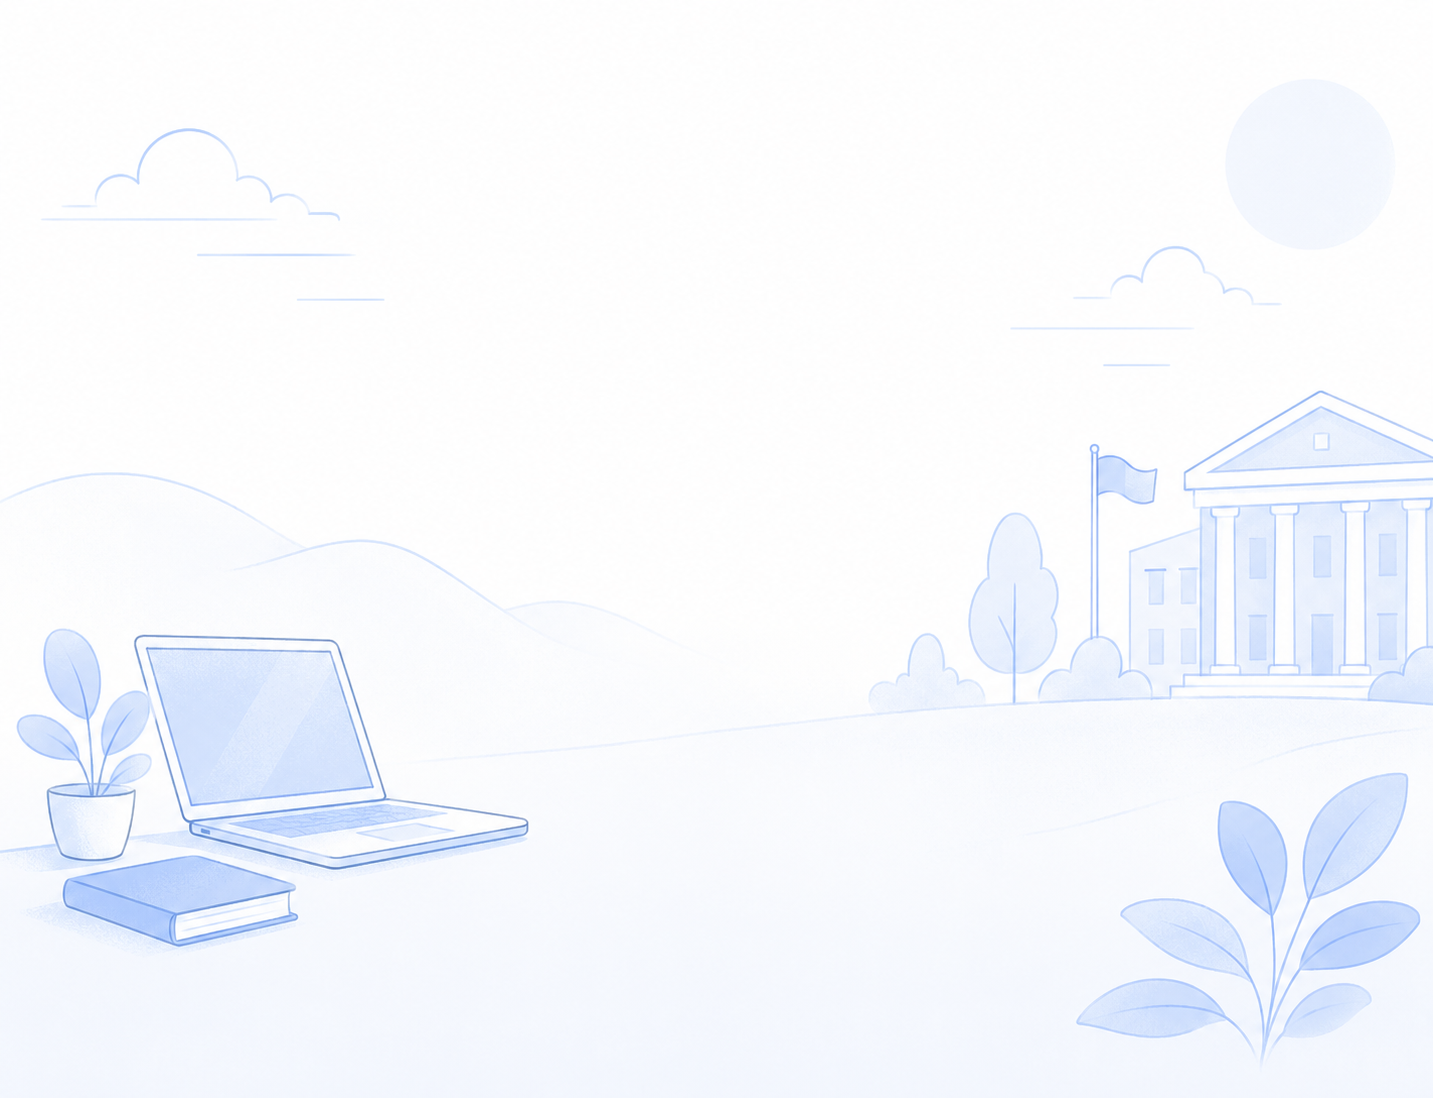
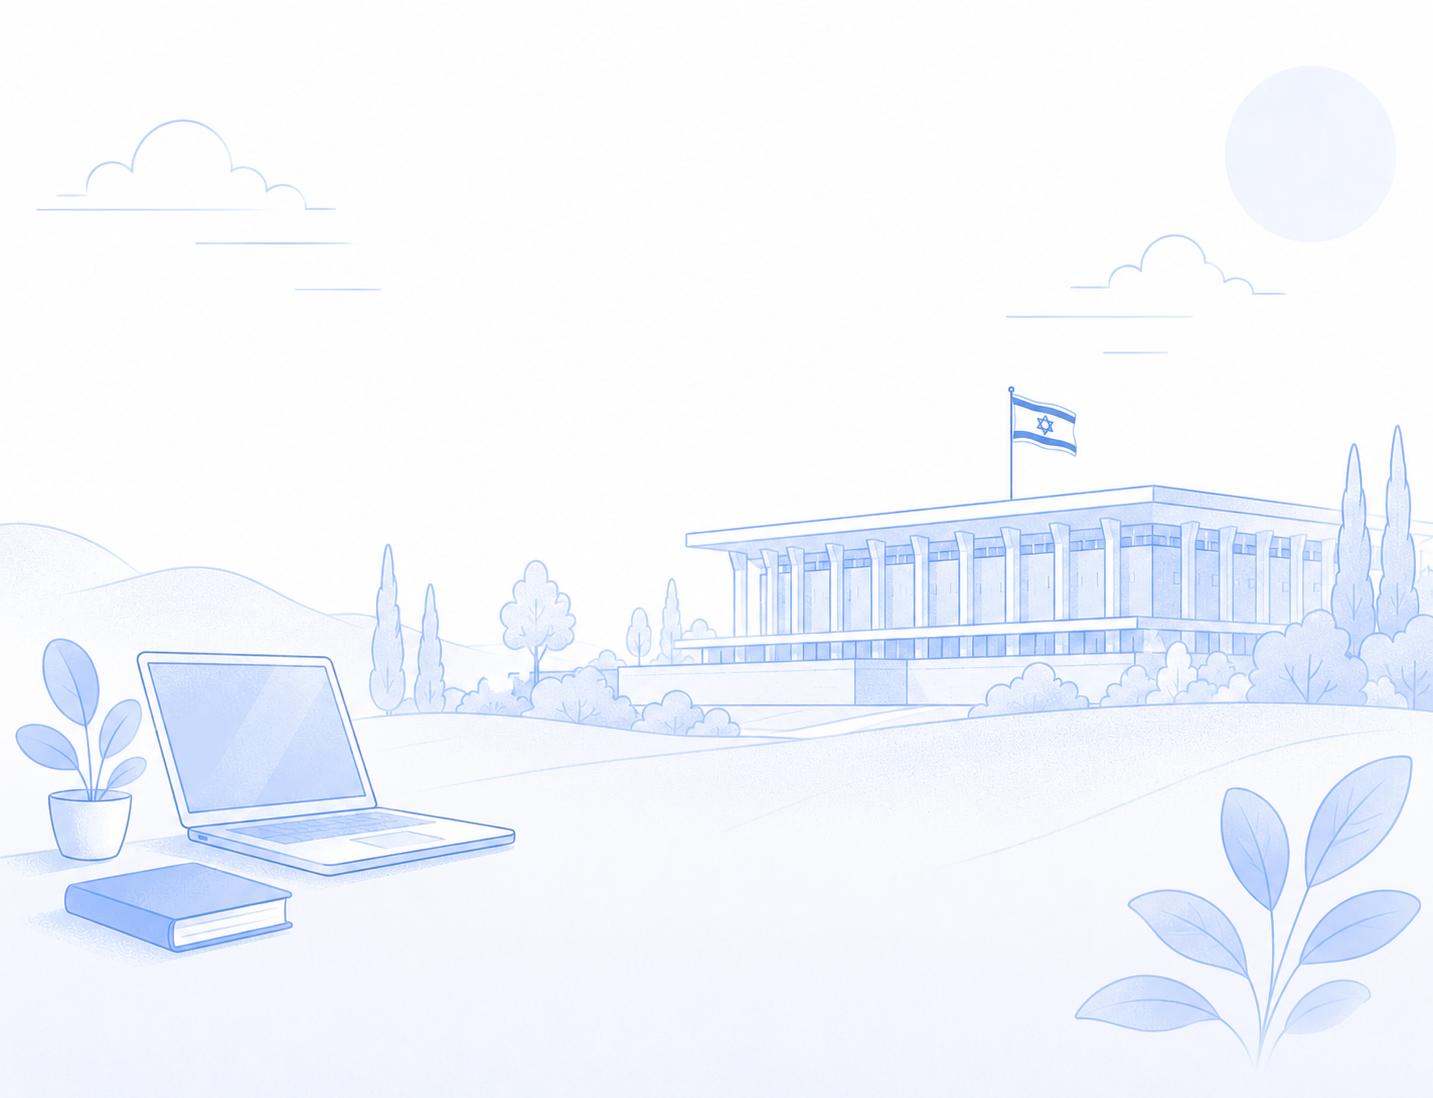
מערכות שטוחות, נגישות AA, רספונסיביות מובייל וולידציה להמחשה
- ביטול תת-מערכות: SYS_MAP שטוח (נהיגה ספורטיבית / מוזיקאים / רקדנים מצטיינים / סל מדע);
  "בקשה חדשה" ישר לטופס של המערכת, ללא דיאלוג בחירה
- ולידציה להמחשה: לחיצה ראשונה מסמנת שדות חובה ("שדה חובה"), לחיצה שנייה מדלגת;
  טופס "השלמת פרטים" נטען עם הכוונה אוטומטית לשדות הנדרשים, טופס חדש נקי
- נגישות AA: שדות נפתחים מותאמים עם תמיכת מקלדת מלאה (חיצים/Enter/Esc) + roles+aria,
  aria-required לשדות חובה, הכהיית --muted לניגודיות ≥4.5
- רספונסיביות מובייל: סרגל האזור-האישי מצטמצם (לוגו/אייקונים בלבד), 0 גלילה אופקית ב-375px
- שינוי "חזרה לאזור האישי" → "חזרה לבקשות שלי"

diff --git a/Government Digital Platform/Prototype/app.js b/Government Digital Platform/Prototype/app.js
@@ -11,7 +11,7 @@ const state = {
   stateView:'maintenance',
   /* אזור אישי (רשימת בקשות) */
   appSearch:'', appType:'all', appPeriod:'all', appEmpty:false,
-  sysName:'נהיגה ספורטיבית', sysSub:'רישוי נהגים ספורטיביים', sysSubs:['רישוי נהגים ספורטיביים','רישום אגודות ומועדונים','מבחנים והסמכות'], sysImg:'assets/systems/driving.jpg', sysLogo:'culture', sysReqTypes:[{id:'music',name:'הגשת בקשה'}],
+  sysName:'נהיגה ספורטיבית', sysImg:'assets/systems/driving.jpg', sysLogo:'culture', sysReq:'music',
 };
 
 /* ברכה לפי שעה */
@@ -76,35 +76,17 @@ function closeLeaveDialog(keepPending){ const el=document.getElementById('leaveD
 function leaveSaveDraft(){ const p=_formExitPending; closeLeaveDialog(); toast('הטיוטה נשמרה',true); if(p) p(); }
 function leaveDiscard(){ const p=_formExitPending; closeLeaveDialog(); if(p) p(); }
 
-/* ---- gateway → enter selected system → אזור אישי ---- */
-const REQ_MUSIC={id:'music',name:'מוזיקאי מצטיין'}, REQ_DANCE={id:'dance',name:'רקדן מצטיין'};
+/* ---- gateway → enter selected system → אזור אישי (מערכות שטוחות, ללא תת-מערכת) ---- */
 const SYS_MAP = {
-  driving:{name:'נהיגה ספורטיבית', subs:['רישוי נהגים ספורטיביים','רישום אגודות ומועדונים','מבחנים והסמכות'], img:'assets/systems/driving.jpg', logo:'culture', empty:true,  reqTypes:[{id:'music',name:'הגשת בקשה'}]},
-  human:  {name:'מצטיינים בצה״ל',  subs:['מוזיקאים מצטיינים','רקדנים מצטיינים'],                              img:'assets/systems/excellence.png', logo:'culture', empty:false, reqTypes:[REQ_MUSIC, REQ_DANCE]},
-  excel:  {name:'מערכת מצטינים',   subs:['מוזיקאים מצטיינים','רקדנים מצטיינים','אמני במה'],                  img:'assets/systems/excel.png',   logo:'culture', empty:true,  reqTypes:[REQ_MUSIC, REQ_DANCE]},
-  funds:  {name:'סל מדע',          subs:['מענקי מחקר','מלגות מדע','תשתיות ומעבדות'],                          img:'assets/systems/funds.jpg',   logo:'state',   empty:true,  reqTypes:[{id:'music',name:'בקשת מענק'}]},
+  driving:{name:'נהיגה ספורטיבית',   img:'assets/systems/driving.jpg',    logo:'culture', empty:true,  req:'music'},
+  music:  {name:'מוזיקאים מצטיינים', img:'assets/systems/excellence.png', logo:'culture', empty:false, req:'music'},
+  dance:  {name:'רקדנים מצטיינים',   img:'assets/systems/excellence.png', logo:'culture', empty:true,  req:'dance'},
+  funds:  {name:'סל מדע',            img:'assets/systems/funds.jpg',      logo:'state',   empty:true,  req:'music'},
 };
-function enterSystem(id){ const s=SYS_MAP[id]||SYS_MAP.driving; state.sysName=s.name; state.sysSubs=s.subs; state.sysSub=s.subs[0]; state.sysImg=s.img; state.sysLogo=s.logo; state.sysReqTypes=s.reqTypes; state.appEmpty=!!s.empty; state.screen='home'; render(); window.scrollTo(0,0); }
+function enterSystem(id){ const s=SYS_MAP[id]||SYS_MAP.driving; state.sysName=s.name; state.sysImg=s.img; state.sysLogo=s.logo; state.sysReq=s.req; state.appEmpty=!!s.empty; state.screen='home'; render(); window.scrollTo(0,0); }
 
-/* הגשת בקשה חדשה — בוחר סוג בקשה אם יש יותר מאחד */
-function newRequest(){
-  const types=state.sysReqTypes||[REQ_MUSIC, REQ_DANCE];
-  if(types.length<=1){ startForm(types[0].id); return; }
-  closeReqTypeDlg();
-  const el=document.createElement('div'); el.className='modal-overlay'; el.id='reqTypeDlg';
-  el.innerHTML=`<div class="modal" role="dialog" aria-modal="true" aria-labelledby="rtT">
-    <h3 id="rtT">הגשת בקשה חדשה</h3>
-    <p>בחרו את סוג הבקשה שברצונכם להגיש במערכת <b>${state.sysName||''}</b>:</p>
-    <div class="modal-acts">
-      ${types.map(t=>`<button class="btn btn-out reqtype-opt" onclick="pickReqType('${t.id}')">${UI.icon(t.id==='dance'?'award':'music',18)} <span>${t.name}</span></button>`).join('')}
-      <button class="btn btn-ghost" onclick="closeReqTypeDlg()">ביטול</button>
-    </div></div>`;
-  el.addEventListener('click',e=>{ if(e.target===el) closeReqTypeDlg(); });
-  document.body.appendChild(el);
-  const f=el.querySelector('.reqtype-opt'); if(f) f.focus();
-}
-function closeReqTypeDlg(){ const el=document.getElementById('reqTypeDlg'); if(el) el.remove(); }
-function pickReqType(id){ closeReqTypeDlg(); startForm(id); }
+/* הגשת בקשה חדשה — ישירות לטופס של המערכת הנוכחית (ללא דיאלוג) */
+function newRequest(){ startForm(state.sysReq||'music'); }
 
 /* ---- שורות/כרטיסים חוזרים בטופס (הוספה/מחיקה אמיתית) ---- */
 function _cleanClone(node){
@@ -127,7 +109,6 @@ function addRepeat(btn){
   }
 }
 function delTableRow(btn){ const tr=btn.closest('tr'); const tb=tr&&tr.parentNode; if(tr && tb && tb.querySelectorAll('tr').length>1){ tr.remove(); } else { toast('יש להשאיר לפחות שורה אחת'); } }
-function setAppSub(name){ state.sysSub=name; render(); }
 
 /* ---- אזור אישי: חיפוש / סינון / מיון + פתיחת בקשה ---- */
 function setAppSearch(v){ state.appSearch=v; render(); const inp=document.querySelector('#appSearchInput'); if(inp){ inp.focus(); inp.setSelectionRange(inp.value.length,inp.value.length); } }
@@ -167,15 +148,47 @@ function setQSearch(v){
 }
 
 /* ---- form ---- */
-function startForm(serviceId){ state.discipline=(serviceId==='dance'?'dance':'music'); state.completeMode=false; state.step=0; state.screen='apply'; render(); window.scrollTo(0,0); }
+function startForm(serviceId){ state.discipline=(serviceId==='dance'?'dance':'music'); state.completeMode=false; state.step=0; state.valBypass=false; state.screen='apply'; render(); window.scrollTo(0,0); }
 function setTrack(t){ state.musicTrack=t; render(); }
-function setStep(i){ state.step=i; render(); window.scrollTo(0,0); }
-function nextStep(){ if(state.step<DB.formDef.steps.length-1){ state.step++; render(); window.scrollTo(0,0); } }
-function prevStep(){ if(state.step>0){ state.step--; render(); window.scrollTo(0,0); } }
+function setStep(i){ state.step=i; state.valBypass=false; render(); window.scrollTo(0,0); }
+function prevStep(){ if(state.step>0){ state.step--; state.valBypass=false; render(); window.scrollTo(0,0); } }
+/* ולידציה להמחשה: לחיצה ראשונה מסמנת שדות חובה חסרים; לחיצה נוספת מדלגת ומתקדמת */
+function validateStep(noScroll){
+  const cont=document.querySelector('.form-sections'); if(!cont) return 0;
+  cont.querySelectorAll('.field.err').forEach(f=>f.classList.remove('err'));
+  cont.querySelectorAll('.check.err').forEach(c=>c.classList.remove('err'));
+  cont.querySelectorAll('.errmsg[data-auto]').forEach(e=>e.remove());
+  let errs=0, first=null;
+  const mark=f=>{ f.classList.add('err'); if(!f.querySelector('.errmsg')){ const s=document.createElement('span'); s.className='errmsg'; s.setAttribute('data-auto','1'); s.textContent='שדה חובה'; f.appendChild(s); } errs++; if(!first) first=f; };
+  cont.querySelectorAll('.field').forEach(f=>{
+    if(!f.querySelector('label .req')) return;
+    const ctrl=f.querySelector('input:not([type=checkbox]):not([type=radio]), select, textarea');
+    if(ctrl){
+      if(ctrl.readOnly) return;
+      let empty;
+      if(ctrl.tagName==='SELECT'){ const o=ctrl.options[ctrl.selectedIndex]; empty=!ctrl.value || (o && /^\s*בחר/.test(o.text)); }
+      else empty=!String(ctrl.value).trim();
+      if(empty) mark(f);
+    } else if(f.querySelector('.dropzone')) mark(f);
+  });
+  cont.querySelectorAll('label.check').forEach(l=>{ if(l.querySelector('.req')){ const cb=l.querySelector('input[type=checkbox]'); if(cb && !cb.checked){ l.classList.add('err'); errs++; if(!first) first=l; } } });
+  if(first && !noScroll) first.scrollIntoView({behavior:'smooth',block:'center'});
+  return errs;
+}
+function nextStep(){
+  if(state.step>=DB.formDef.steps.length-1) return;
+  if(!state.valBypass){
+    const errs=validateStep();
+    if(errs>0){ state.valBypass=true; toast('יש להשלים '+errs+' שדות חובה · לחיצה נוספת על "המשך" תדלג על הבדיקה (להמחשה)'); return; }
+  }
+  state.valBypass=false; state.step++; render(); window.scrollTo(0,0);
+}
 function submitForm(){
-  const dec=document.getElementById('declare');
-  if(dec && !dec.checked){ toast('יש לאשר את ההצהרה לפני ההגשה'); return; }
-  toast('הבקשה הוגשה בהצלחה', true); nav('success');
+  if(!state.valBypass){
+    const errs=validateStep();
+    if(errs>0){ state.valBypass=true; toast('יש להשלים '+errs+' שדות חובה · לחיצה נוספת על "הגשה" תדלג על הבדיקה (להמחשה)'); return; }
+  }
+  state.valBypass=false; toast('הבקשה הוגשה בהצלחה', true); nav('success');
 }
 /* חיפוש גלובלי (Hero / Header) → קטלוג שירותים */
 function goSearch(ev, val){
@@ -222,6 +235,8 @@ function render(){
   bindAutosave();
   initSignature();
   document.body.classList.toggle('formbar', state.screen==='apply');
+  /* בקשה קיימת להשלמה: המערכת מסמנת ומכווינה לשדות הנדרשים מיד עם הטעינה */
+  if(state.screen==='apply' && state.completeMode) validateStep(true);
 }
 
 /* פד חתימה אינטראקטיבי (canvas) */
@@ -283,24 +298,35 @@ function enhanceSelects(){
     const btn=document.createElement('button'); btn.type='button'; btn.className='uisel-btn';
     btn.setAttribute('aria-haspopup','listbox'); btn.setAttribute('aria-expanded','false');
     if(sel.disabled) btn.disabled=true;
+    const lab=sel.closest('.field')&&sel.closest('.field').querySelector('label');
+    if(lab){ const t=lab.textContent.replace('*','').trim(); if(t) btn.setAttribute('aria-label',t); }
+    else if(sel.getAttribute('aria-label')) btn.setAttribute('aria-label',sel.getAttribute('aria-label'));
     btn.innerHTML=`<span class="uisel-val">${cur?cur.textContent:''}</span><span class="uisel-chev">${UI.icon('chevdown',18)}</span>`;
     const menu=document.createElement('div'); menu.className='uisel-menu hidden'; menu.setAttribute('role','listbox');
-    [...sel.options].forEach((o,i)=>{
-      const oi=document.createElement('button'); oi.type='button'; oi.setAttribute('role','option');
+    const opts=[...sel.options].map((o,i)=>{
+      const oi=document.createElement('button'); oi.type='button'; oi.setAttribute('role','option'); oi.tabIndex=-1;
       oi.className='uisel-opt'+(i===sel.selectedIndex?' on':''); oi.textContent=o.textContent;
-      oi.addEventListener('click',ev=>{
-        ev.stopPropagation(); sel.value=o.value;
-        btn.querySelector('.uisel-val').textContent=o.textContent;
-        menu.querySelectorAll('.uisel-opt').forEach(x=>x.classList.remove('on')); oi.classList.add('on');
-        menu.classList.add('hidden'); btn.setAttribute('aria-expanded','false');
-        sel.dispatchEvent(new Event('change',{bubbles:true}));
-      });
-      menu.appendChild(oi);
+      oi.setAttribute('aria-selected', i===sel.selectedIndex?'true':'false');
+      oi.addEventListener('click',ev=>{ ev.stopPropagation(); choose(i); });
+      oi.addEventListener('keydown',ev=>onOptKey(ev,i));
+      menu.appendChild(oi); return oi;
     });
-    btn.addEventListener('click',ev=>{
-      ev.stopPropagation(); const willOpen=menu.classList.contains('hidden'); closeMenus();
-      if(willOpen){ menu.classList.remove('hidden'); btn.setAttribute('aria-expanded','true'); }
-    });
+    function choose(i){ const o=sel.options[i]; sel.value=o.value; btn.querySelector('.uisel-val').textContent=o.textContent;
+      opts.forEach((x,j)=>{ x.classList.toggle('on',j===i); x.setAttribute('aria-selected', j===i?'true':'false'); });
+      close(); sel.dispatchEvent(new Event('change',{bubbles:true})); }
+    function open(){ closeMenus(); menu.classList.remove('hidden'); btn.setAttribute('aria-expanded','true'); (opts.find(x=>x.classList.contains('on'))||opts[0]||{focus(){}}).focus(); }
+    function close(focusBtn){ menu.classList.add('hidden'); btn.setAttribute('aria-expanded','false'); if(focusBtn!==false) btn.focus(); }
+    function onOptKey(ev,i){
+      if(ev.key==='ArrowDown'){ ev.preventDefault(); (opts[i+1]||opts[0]).focus(); }
+      else if(ev.key==='ArrowUp'){ ev.preventDefault(); (opts[i-1]||opts[opts.length-1]).focus(); }
+      else if(ev.key==='Home'){ ev.preventDefault(); opts[0].focus(); }
+      else if(ev.key==='End'){ ev.preventDefault(); opts[opts.length-1].focus(); }
+      else if(ev.key==='Enter'||ev.key===' '){ ev.preventDefault(); choose(i); }
+      else if(ev.key==='Escape'){ ev.preventDefault(); close(); }
+      else if(ev.key==='Tab'){ close(false); }
+    }
+    btn.addEventListener('click',ev=>{ ev.stopPropagation(); if(menu.classList.contains('hidden')) open(); else close(false); });
+    btn.addEventListener('keydown',ev=>{ if(ev.key==='ArrowDown'||ev.key==='Enter'||ev.key===' '){ ev.preventDefault(); open(); } else if(ev.key==='Escape'){ close(false); } });
     sel.style.display='none';
     sel.parentNode.insertBefore(wrap, sel.nextSibling);
     wrap.appendChild(btn); wrap.appendChild(menu);
@@ -312,6 +338,7 @@ function associateLabels(){
   document.querySelectorAll('#app .field').forEach(f=>{
     const lab=f.querySelector('label'); const inp=f.querySelector('input,select,textarea');
     if(lab&&inp&&!inp.id){ const id='fld'+(++lc); inp.id=id; lab.htmlFor=id; }
+    if(inp && lab && lab.querySelector('.req')) inp.setAttribute('aria-required','true');
   });
   document.querySelectorAll('#app table.form-table').forEach(t=>{
     const ths=[...t.querySelectorAll('thead th')].map(h=>h.textContent.trim());

diff --git a/Government Digital Platform/Prototype/styles.css b/Government Digital Platform/Prototype/styles.css
@@ -14,7 +14,7 @@
   --ink:#0C3058;           /* טקסט גוף (navy) */
   --ink-strong:#0B3668;    /* כותרות */
   --ink-soft:#54688A;      /* טקסט משני */
-  --muted:#6A7790;
+  --muted:#566580;
   --line:#E4E9F2;          /* גבולות */
   --line-2:#CFD8E6;
   --surface:#FFFFFF;
@@ -569,6 +569,10 @@ table.dt tbody tr:hover{background:var(--blue-l2)}
   background-repeat:no-repeat;background-position:left 14px center;background-size:16px;padding-left:42px}
 .field input:focus,.field select:focus,.field textarea:focus{outline:none;border-color:var(--blue);box-shadow:var(--ring)}
 .field.err input,.field.err select{border-color:var(--danger);box-shadow:0 0 0 3px rgba(194,36,27,.14)}
+.field.err .uisel-btn{border-color:var(--danger);box-shadow:0 0 0 3px rgba(194,36,27,.14)}
+.field.err .dropzone{border-color:var(--danger);background:rgba(194,36,27,.04)}
+.check.err{color:var(--danger)}
+.check.err input{outline:2px solid var(--danger);outline-offset:2px}
 .field .errmsg{font-size:13px;color:var(--danger);font-weight:500;display:none}
 .field.err .errmsg{display:block}
 .field .ok-tag{font-size:12.5px;color:var(--ok);font-weight:600}
@@ -742,6 +746,21 @@ body.formbar{overflow-x:clip}
 .menu-overlay{display:none;position:fixed;inset:0;background:rgba(11,46,92,.45);z-index:45}
 @media(min-width:981px){.sticky-cta{position:sticky;top:84px}}
 
+/* ===== סרגל אזור-אישי במובייל: צמצום לאלמנטים חיוניים ===== */
+@media(max-width:680px){
+  .govbar{padding:0 12px;gap:8px}
+  .govbar .left{gap:8px;min-width:0;flex:1}
+  .applic-brand .bl-tx{display:none}              /* רק סמל המשרד */
+  .govbar .ctx{padding-inline-start:10px;margin-inline-start:4px;min-width:0}
+  .sw-combo .sw-sys,.ctx-static .ctx-sys{max-width:42vw;overflow:hidden;text-overflow:ellipsis;white-space:nowrap;display:inline-block}
+  .bar-newreq .btn-lbl{display:none}               /* כפתור אייקון בלבד */
+  .bar-newreq{padding:9px 11px}
+  .bar-exit .btn-lbl{display:none}
+  .bar-exit{padding:8px 11px}
+  .userpill .up-tx{display:none}                   /* אווטאר + חץ בלבד */
+  .userpill{padding:0 6px;gap:4px}
+  .bar-autosave .as-note{display:none}
+}
 @media(max-width:980px){
   .hamburger{display:flex}
   .hdr-search{display:none}
@@ -780,7 +799,7 @@ body.formbar{overflow-x:clip}
    ============================================================ */
 .signin{flex:1;display:flex;flex-direction:column;min-height:100vh;position:relative;background:var(--bg)}
 .signin::before{content:"";position:absolute;inset:0;pointer-events:none;
-  background:url('assets/signin-bg.png') no-repeat bottom center;background-size:cover}
+  background:url('assets/signin-bg.png?v=2') no-repeat bottom center;background-size:cover}
 .signin-top{display:flex;justify-content:flex-start;padding:24px 40px;position:relative;z-index:2}
 .ministries{display:flex;align-items:center;gap:30px}
 .ministries .min-logo{height:52px;width:auto;display:block}

diff --git a/Government Digital Platform/Prototype/components.js b/Government Digital Platform/Prototype/components.js
@@ -149,37 +149,33 @@ window.UI = (function(){
   /* ---- סרגל אזור אישי (לאחר בחירת מערכת) — נאמן ל-Figma ---- */
   function barApplicant(minimal){
     const sys = state.sysName || 'נהיגה ספורטיבית';
-    const sub = state.sysSub || 'רישוי נהגים ספורטיביים';
     const minName = state.sysLogo==='state' ? 'משרד החדשנות, המדע והטכנולוגיה' : 'משרד התרבות והספורט';
     const brand = `<button class="brand-lock applic-brand" onclick="nav('home')" title="${minName} — דף הבית"><span class="emblem ministry no-chip">${state.sysLogo==='state'?stateLogo(40):ministryLogo(40)}</span><span class="bl-tx"><span class="wm">${minName}</span></span></button>`;
     if(minimal){
       return `<header class="govbar dark"><div class="left">
         ${brand}
-        <div class="ctx ctx-static"><span class="ctx-sys">${sys}</span><span class="ctx-sub">${sub}</span></div>
+        <div class="ctx ctx-static"><span class="ctx-sys">${sys}</span></div>
       </div>
       <div class="right">
         <span class="autosave bar-autosave" title="טיוטה נשמרה אוטומטית"><span class="as-note">טיוטה נשמרה אוטומטית ·</span>${icon('save',16)}<span class="as-time">09:51</span></span>
-        <button class="bar-exit" onclick="nav('home')" title="יציאה מהתהליך">${icon('x',18)} יציאה מהתהליך</button></div>
+        <button class="bar-exit" onclick="nav('home')" title="יציאה מהתהליך" aria-label="יציאה מהתהליך">${icon('x',18)} <span class="btn-lbl">יציאה מהתהליך</span></button></div>
       </header>`;
     }
     return `<header class="govbar dark"><div class="left">
         ${brand}
         <div class="ctx">
           <div class="subsys-wrap syswitch">
-            <button class="sw sw-combo" onclick="toggleSubsys(event)" aria-haspopup="true" aria-label="בחירת מערכת ותת-מערכת">
-              <span class="sw-stack"><span class="sw-sys">${sys}</span><span class="sw-sub">${sub}</span></span>${icon('chevdown',16)}
+            <button class="sw sw-combo" onclick="toggleSubsys(event)" aria-haspopup="true" aria-label="בחירת מערכת">
+              <span class="sw-sys">${sys}</span>${icon('chevdown',16)}
             </button>
             <div class="subsysmenu sysmenu hidden">
-              <div class="ssm-head">מערכת</div>
+              <div class="ssm-head">בחירת מערכת</div>
               ${Object.keys(SYS_MAP).map(id=>{const s=SYS_MAP[id];const cur=s.name===sys;return `<button class="um-item${cur?' on':''}" onclick="closeMenus();enterSystem('${id}')">${icon('grid',16)}<span class="um-tx">${s.name}</span>${cur?icon('check',16):''}</button>`;}).join('')}
-              <div class="um-div"></div>
-              <div class="ssm-head">תת-מערכת</div>
-              ${(state.sysSubs||[sub]).map(s=>{const cur=s===sub;return `<button class="um-item${cur?' on':''}" onclick="closeMenus();setAppSub('${s}')">${icon('list',16)}<span class="um-tx">${s}</span>${cur?icon('check',16):''}</button>`;}).join('')}
             </div>
           </div>
         </div></div>
       <div class="right">
-        <button class="bar-newreq" onclick="newRequest()">${icon('plusbare',18)} הגשת בקשה חדשה</button>
+        <button class="bar-newreq" onclick="newRequest()" aria-label="הגשת בקשה חדשה">${icon('plusbare',18)} <span class="btn-lbl">הגשת בקשה חדשה</span></button>
         ${userPill('עופר ברוידא','',[
           {label:'הבקשות שלי',icon:'home',onclick:"nav('home')"},
           {label:'הודעות',icon:'mail',onclick:"nav('notifications')"},

diff --git a/Government Digital Platform/Prototype/index.html b/Government Digital Platform/Prototype/index.html
@@ -9,16 +9,16 @@
 <link rel="preconnect" href="https://fonts.gstatic.com" crossorigin>
 <link rel="preload" as="style" href="https://fonts.googleapis.com/css2?family=Rubik:wght@300;400;500;600;700;800&display=swap" onload="this.onload=null;this.rel='stylesheet'">
 <noscript><link rel="stylesheet" href="https://fonts.googleapis.com/css2?family=Rubik:wght@300;400;500;600;700;800&display=swap"></noscript>
-<link rel="stylesheet" href="styles.css?v=60">
+<link rel="stylesheet" href="styles.css?v=66">
 <style>body{font-family:'Rubik',system-ui,'Segoe UI',Arial,sans-serif}</style>
 </head>
 <body>
   <div id="app"></div>
 
-  <script src="data.js?v=60"></script>
-  <script src="components.js?v=60"></script>
-  <script src="screens-citizen.js?v=60"></script>
-  <script src="screens-operations.js?v=60"></script>
-  <script src="app.js?v=60"></script>
+  <script src="data.js?v=66"></script>
+  <script src="components.js?v=66"></script>
+  <script src="screens-citizen.js?v=66"></script>
+  <script src="screens-operations.js?v=66"></script>
+  <script src="app.js?v=66"></script>
 </body>
 </html>

diff --git a/Government Digital Platform/Prototype/screens-citizen.js b/Government Digital Platform/Prototype/screens-citizen.js
@@ -574,7 +574,7 @@ window.CITIZEN = (function(){
       <p>בקשתך נקלטה במערכת. מספר הבקשה <b class="bdi">M-2026-0042</b>. נשלח אישור לדוא״ל שלך, וניתן לעקוב אחר הסטטוס באזור האישי.</p>
       <div style="display:flex;gap:12px;flex-wrap:wrap;justify-content:center">
         <button class="btn btn-pri btn-lg" onclick="nav('track','M-2026-0042')">למעקב אחר הבקשה</button>
-        <button class="btn btn-out btn-lg" onclick="nav('home')">חזרה לאזור האישי</button>
+        <button class="btn btn-out btn-lg" onclick="nav('home')">חזרה לבקשות שלי</button>
       </div>
       <div class="card" style="margin-top:30px;max-width:540px;text-align:start;width:100%"><div class="card-b">
         <b style="color:var(--ink-strong)">מה קורה עכשיו?</b>
@@ -591,9 +591,9 @@ window.CITIZEN = (function(){
   function cstate(){
     const which = state.stateView || 'maintenance';
     const v = {
-      maintenance:{ic:'warn',icon:'wrench',h:'המערכת מתעדכנת',p:'אנו מבצעים תחזוקה מתוכננת לשיפור השירות. השירות יחזור לפעילות בקרוב — נשמח לראותך שוב בעוד זמן קצר.',a:'רענון העמוד',a2:'חזרה לאזור האישי'},
+      maintenance:{ic:'warn',icon:'wrench',h:'המערכת מתעדכנת',p:'אנו מבצעים תחזוקה מתוכננת לשיפור השירות. השירות יחזור לפעילות בקרוב — נשמח לראותך שוב בעוד זמן קצר.',a:'רענון העמוד',a2:'חזרה לבקשות שלי'},
       locked:{ic:'lock',icon:'lock',h:'נדרשת הזדהות מאובטחת',p:'הגישה לשירות זה דורשת הזדהות באמצעות כרטיס חכם. כדי להמשיך, הזדהו עם כרטיס חכם או פנו למוקד התמיכה בטלפון *6552.',a:'הזדהות עם כרטיס חכם',a2:'פנייה לתמיכה'},
-      error:{ic:'warn',icon:'alert',h:'אירעה שגיאה',p:'לא הצלחנו להשלים את הפעולה. נסו שוב בעוד מספר רגעים. אם התקלה חוזרת, פנו למוקד התמיכה ונשמח לסייע.',a:'נסו שוב',a2:'חזרה לאזור האישי'},
+      error:{ic:'warn',icon:'alert',h:'אירעה שגיאה',p:'לא הצלחנו להשלים את הפעולה. נסו שוב בעוד מספר רגעים. אם התקלה חוזרת, פנו למוקד התמיכה ונשמח לסייע.',a:'נסו שוב',a2:'חזרה לבקשות שלי'},
       empty:{ic:'blue',icon:'inbox',h:'עדיין אין בקשות',p:'לא הגשת בקשות עד כה. בחרו שירות כדי להתחיל בקשה חדשה — המערכת תלווה אתכם צעד אחר צעד.',a:'בחירת שירות והתחלה',a2:''},
     }[which];
     const main = `<div class="state-page">

diff --git a/Government Digital Platform/Prototype/screens-operations.js b/Government Digital Platform/Prototype/screens-operations.js
@@ -12,8 +12,8 @@ window.OPS = (function(){
   function gateway(){
     const cards = [
       {id:'driving', logo:'נ', name:'נהיגה ספורטיבית', org:'רשות לנהיגה ספורטיבית', tag:'רשות', img:'assets/systems/driving.jpg', state:'active'},
-      {id:'human',   logo:'מ', name:'מצטיינים בצה״ל',  org:'אגף מצטיינים · משרד התרבות והספורט', tag:'אגף', img:'assets/systems/excellence.png', state:'active'},
-      {id:'excel',   logo:'מ', name:'מערכת מצטינים',   org:'אגף התרבות', tag:'אגף', img:'assets/systems/excel.png', state:'maint'},
+      {id:'music',   logo:'מ', name:'מוזיקאים מצטיינים', org:'אגף מצטיינים · משרד התרבות והספורט', tag:'אגף', img:'assets/systems/excellence.png', state:'active'},
+      {id:'dance',   logo:'ר', name:'רקדנים מצטיינים',  org:'אגף מצטיינים · משרד התרבות והספורט', tag:'אגף', img:'assets/systems/excellence.png', state:'active'},
       {id:'funds',   logo:'ס', name:'סל מדע',          org:'משרד החדשנות, המדע והטכנולוגיה', tag:'מטה', img:'assets/systems/funds.jpg', inv:true, state:'lock'},
     ];
     const card = c=>{